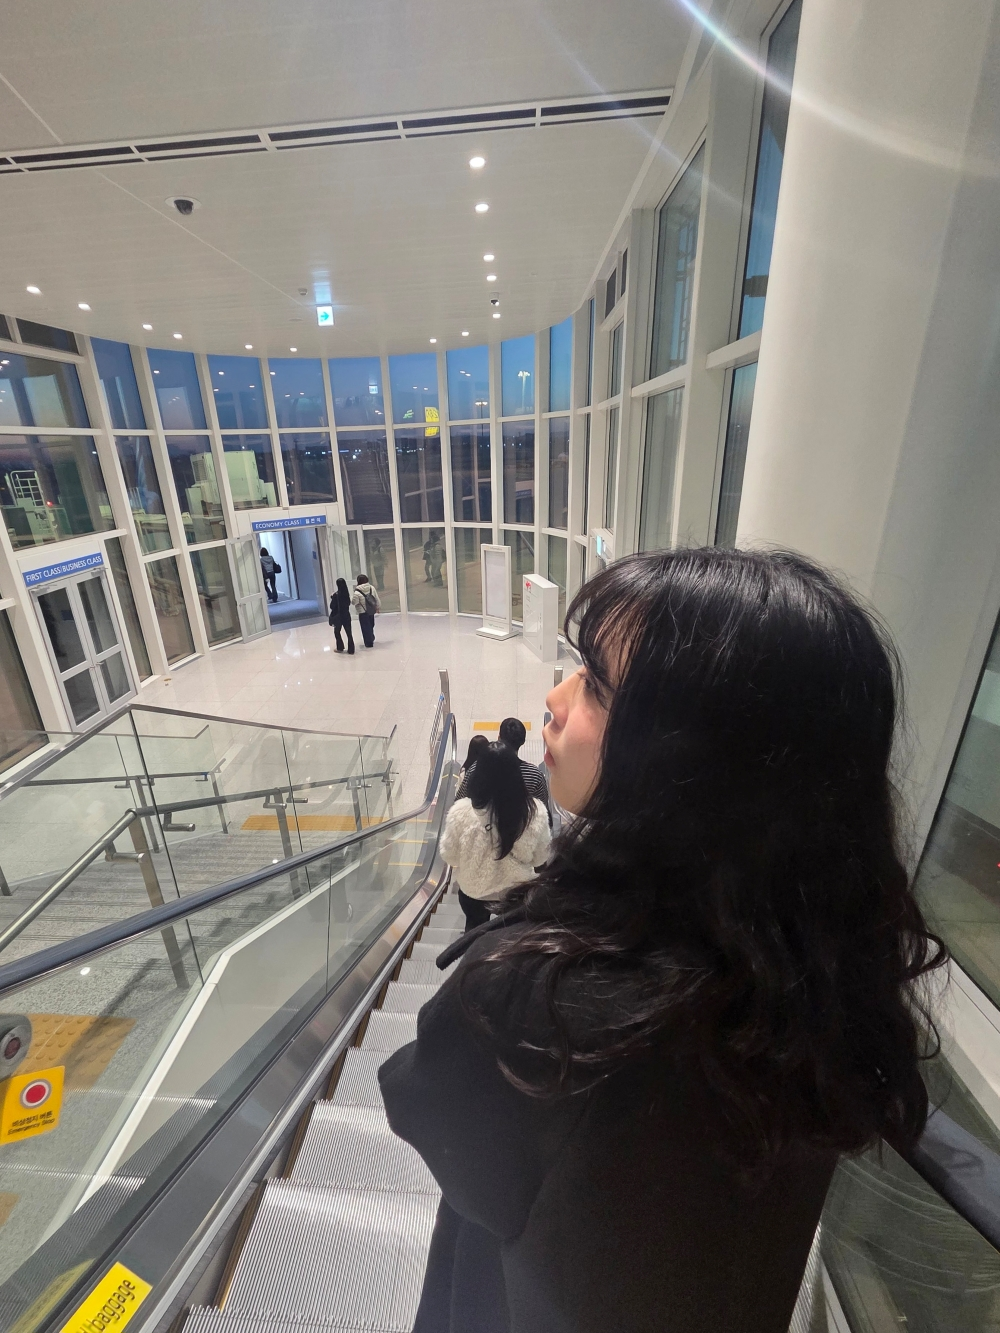
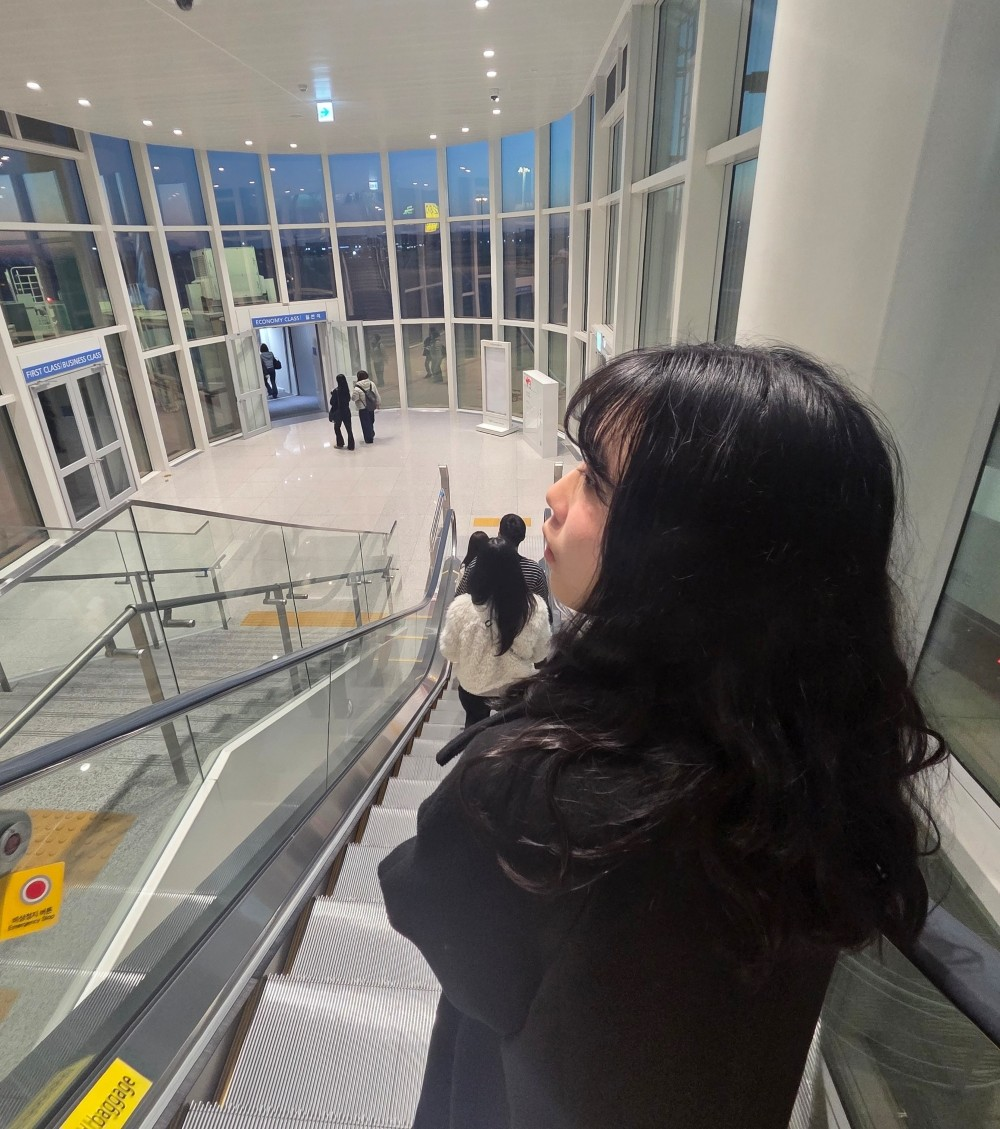
사진수정

diff --git a/product.js b/product.js
@@ -52,6 +52,14 @@ const initCartPopup = () => {
     const totalPrice = qty * 185;
     priceDisplay.textContent = `$${totalPrice}`;
 
+    // Prevent layout shift (scrollbar width)
+    const scrollbarWidth = window.innerWidth - document.documentElement.clientWidth;
+    if (scrollbarWidth > 0) {
+      document.body.style.paddingRight = `${scrollbarWidth}px`;
+      const header = document.querySelector('.site-header');
+      if (header) header.style.paddingRight = `${scrollbarWidth}px`;
+    }
+
     // Open popup
     overlay.classList.add('active');
     overlay.setAttribute('aria-hidden', 'false');
@@ -61,7 +69,12 @@ const initCartPopup = () => {
   const closeCartPopup = () => {
     overlay.classList.remove('active');
     overlay.setAttribute('aria-hidden', 'true');
-    document.body.style.overflow = ''; // Restore body scrolling
+    
+    // Restore body scrolling and padding
+    document.body.style.overflow = ''; 
+    document.body.style.paddingRight = '';
+    const header = document.querySelector('.site-header');
+    if (header) header.style.paddingRight = '';
   };
 
   // Event Delegation for the Buy Button

diff --git a/product.html b/product.html
@@ -285,6 +285,6 @@
   </div>
 
   <script src="script.js"></script>
-  <script src="product.js?v=2"></script>
+  <script src="product.js?v=4"></script>
 </body>
 </html>
